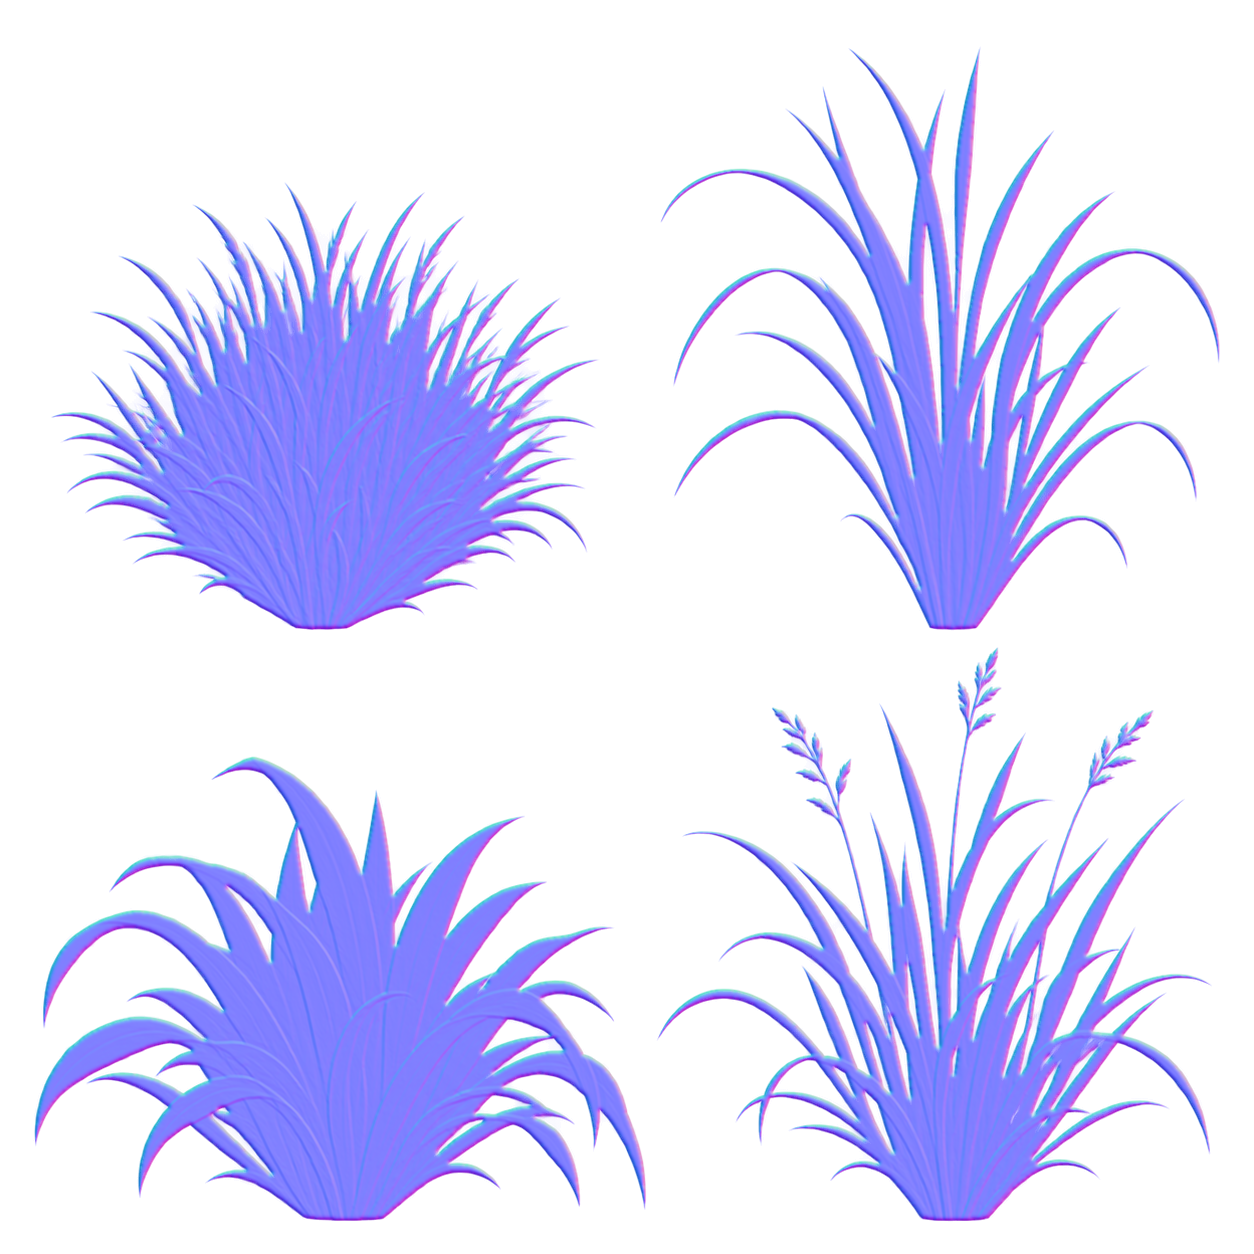
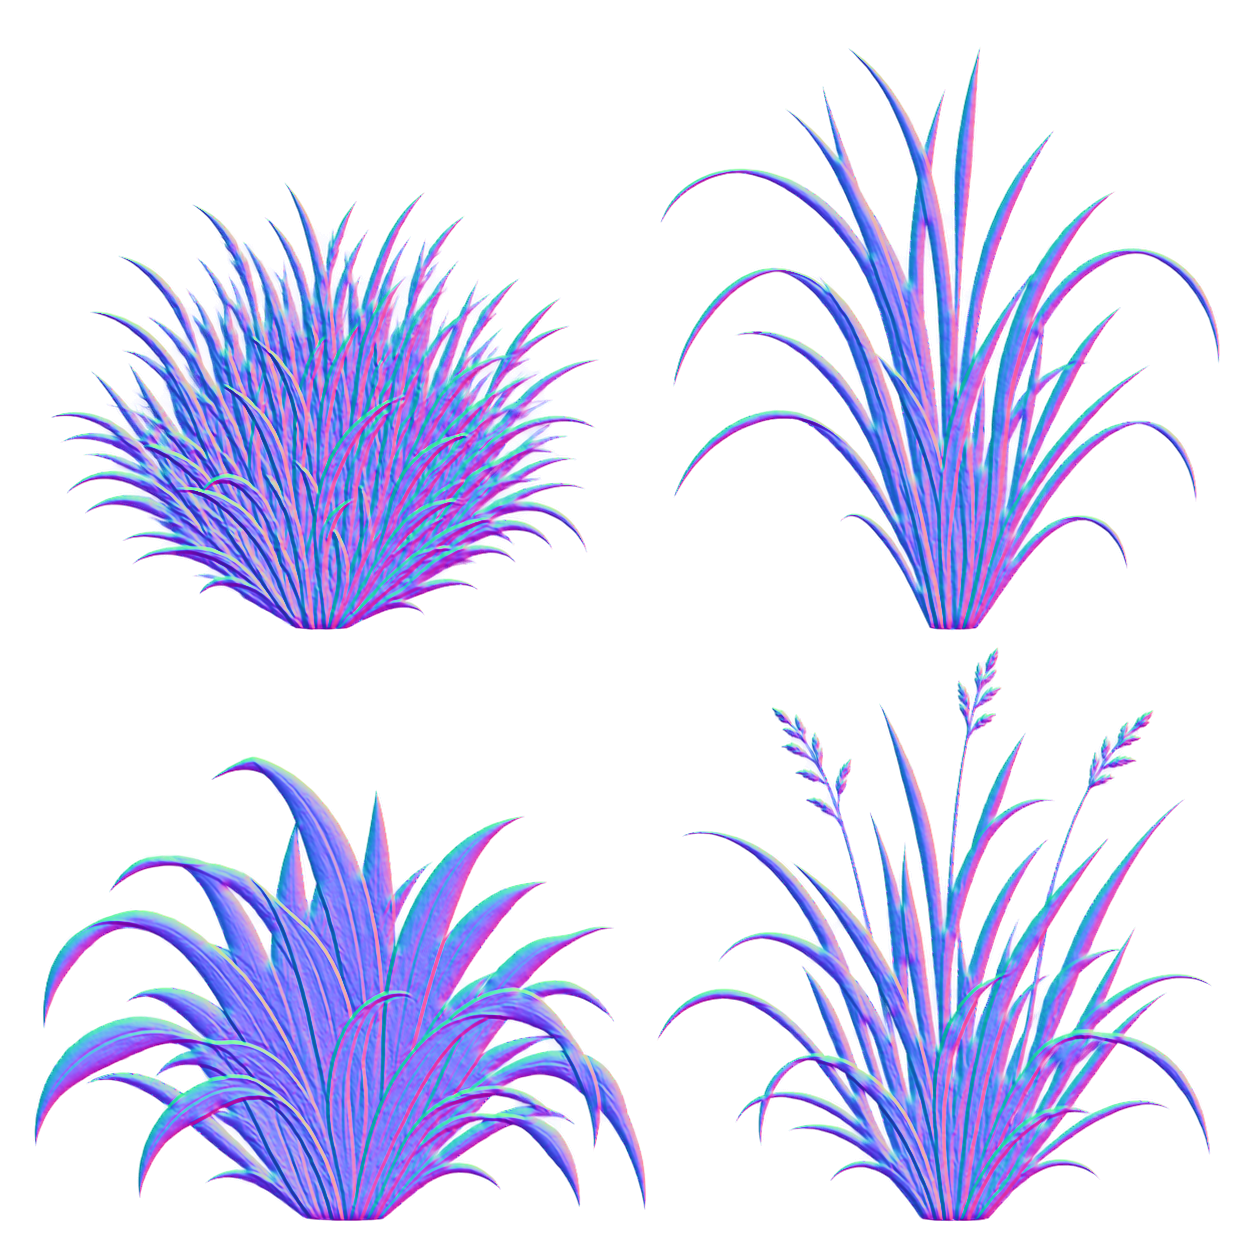
fix(garden): give grass tufts per-blade normals and translucency; broaden the sheen waves
The derived grass normal map only rounded each tuft's silhouette by ~5px of
a 627px cell, lost when drawn from 256px cells, so tufts lit as flat cards
and backlight had nothing to pass through. Derive strong per-blade relief
(radius 14, detail 28) and let paler blades pass more light.

Double WAVELENGTH (320 -> 640) so the gust sheen reads as broad waves, not
stripes; the plants' sway shares the field.

Claude-Session: https://claude.ai/code/session_01Q86SXud7jWw66KW2qCgXUB

diff --git a/scripts/grass-art.ts b/scripts/grass-art.ts
@@ -204,7 +204,11 @@ for (let i = 3; i < tufts.data.length; i += 4) {
 }
 writeFileSync(
   `${OUT}/grass-normal.png`,
-  encode(deriveNormals(tufts, { radius: 5, detail: 2 }), true),
+  // Strong relief: the tufts are drawn from 256-pixel cells (a 627-pixel
+  // source), so a faint rim or faint luminance detail flattens to a card
+  // there. Each painted blade, light along its middle and dark at its
+  // overlaps, becomes its own ridge.
+  encode(deriveNormals(tufts, { radius: 14, detail: 28 }), true),
 );
 const cell = tufts.width / 2;
 const thin = edgeDistance(tufts);
@@ -217,7 +221,9 @@ for (let y = 0; y < tufts.height; y++)
     const up = 1 - (y % cell) / cell;
     const tip = Math.min(1, 0.2 + up * 1.1);
     const narrow = 1 - Math.min(1, Math.max(0, ((thin[i] ?? 0) - 1) / 8));
-    const v = a * tip * (0.55 + 0.45 * narrow) * 255;
+    // Paler painted blades are the thin, sunlit ones: they pass more.
+    const pale = luminance(tufts.data, i * 4);
+    const v = a * tip * (0.35 + 0.35 * narrow + 0.5 * pale) * 255;
     trans[i * 4] = trans[i * 4 + 1] = trans[i * 4 + 2] = v;
     trans[i * 4 + 3] = 255;
   }

diff --git a/src/ui/scene/wind-field.ts b/src/ui/scene/wind-field.ts
@@ -150,7 +150,7 @@ export function gustPatch(x: number, y: number, wind: WindField): number {
 }
 
 /** Design pixels from one wave front to the next, along the wind, near. */
-export const WAVELENGTH = 320;
+export const WAVELENGTH = 640;
 
 /**
  * Waves of bent grass rolling downwind, smaller and slower toward the
